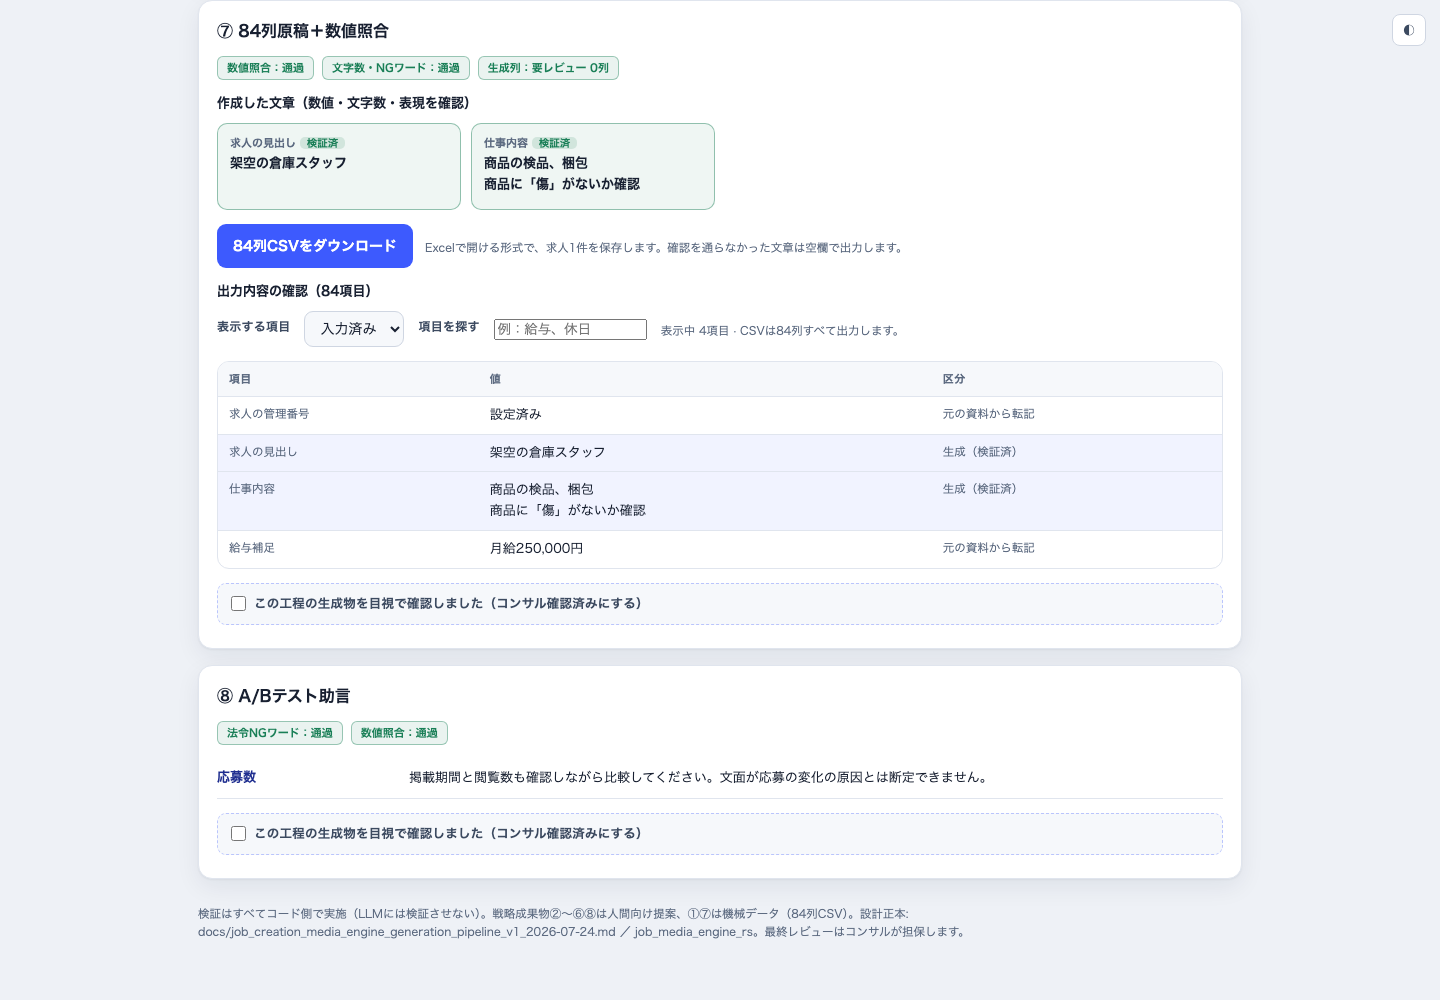
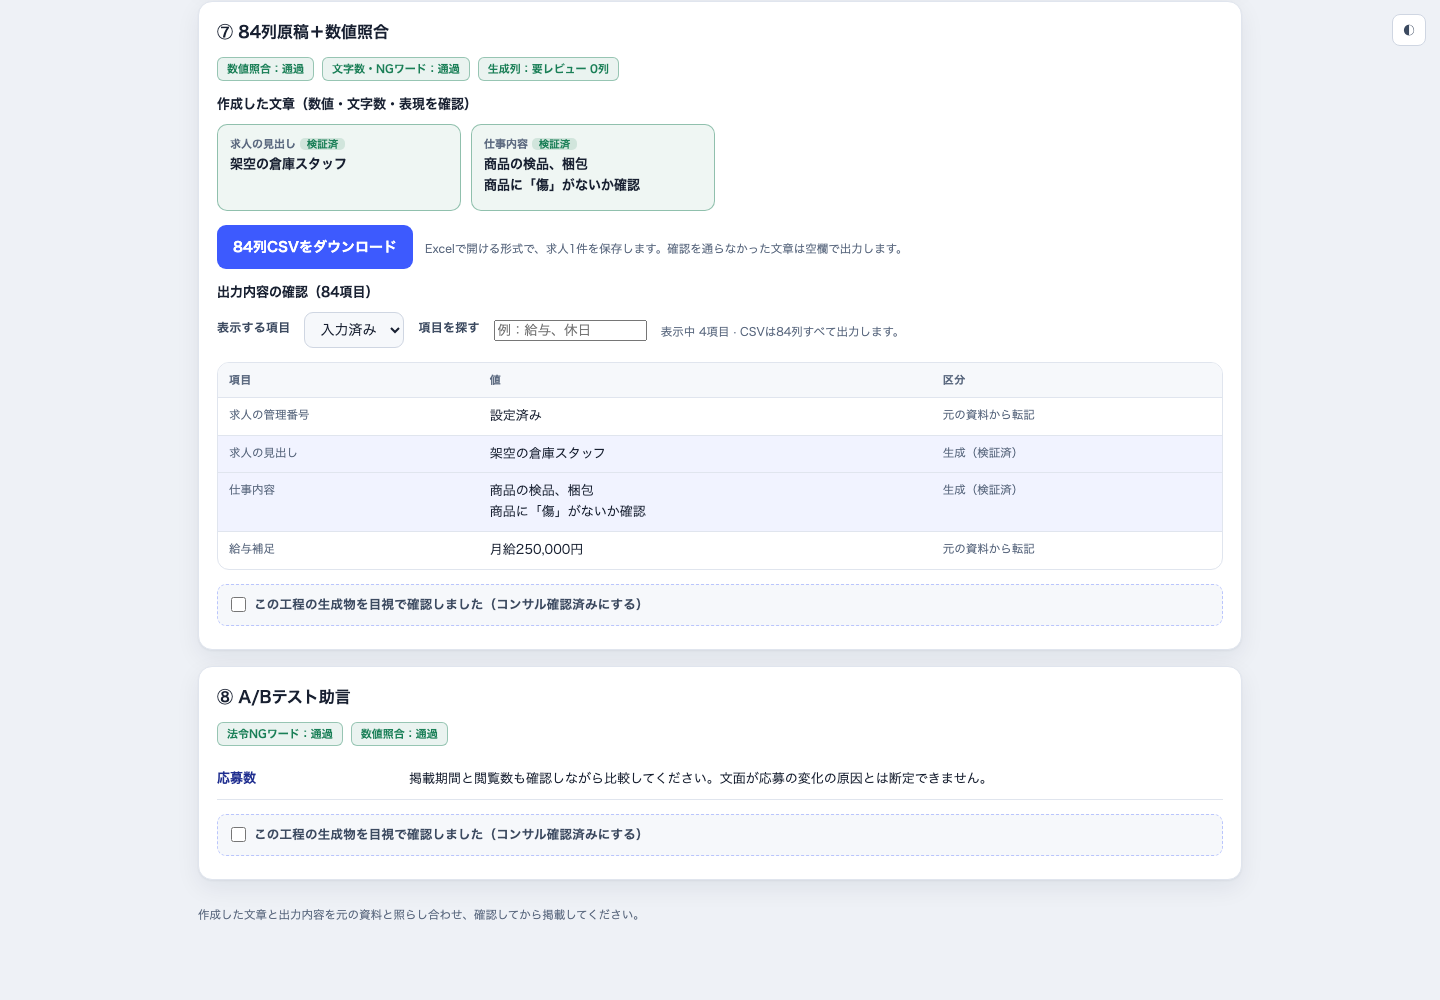
求人票作成の読込競合・職種名判定・内部情報表示を修正

diff --git a/frontend/src/screens/jobgen/reviewRegressions.test.tsx b/frontend/src/screens/jobgen/reviewRegressions.test.tsx
@@ -1,0 +1,72 @@
+// @vitest-environment happy-dom
+import { act, cleanup, fireEvent, render, waitFor, within } from '@testing-library/react';
+import { afterEach, expect, it, vi } from 'vitest';
+import fixtures from '../../generated/jobgen/fixtures.json';
+import type { PostFn } from './api';
+import { JobgenScreen } from './JobgenScreen';
+import type { HrhackerResult } from './state';
+import { HrhackerSection } from './sections/HrhackerSection';
+
+afterEach(() => { cleanup(); vi.restoreAllMocks(); });
+
+function element(root: ParentNode, selector: string): HTMLElement {
+  const found = root.querySelector<HTMLElement>(selector);
+  if (!found) throw new Error(`画面に ${selector} がありません`);
+  return found;
+}
+
+it('旧求人があってもCSVの読込開始から工程①を止め、新しい求人を取り込む', async () => {
+  const post = vi.fn((path: string, body: { kind?: string }) => Promise.resolve({ ok: true, data: path.endsWith('/normalize') ? { status: 'ok', jobs: [{ title_hint: body.kind === 'csv' ? '配送スタッフ' : '営業', source_text: body.kind === 'csv' ? '配送スタッフ 月給300000円' : '営業 月給250000円' }] } : fixtures.responses.extract })) as unknown as PostFn;
+  const view = render(<JobgenScreen post={post} />);
+  fireEvent.change(element(view.container, '#freeText'), { target: { value: '営業 月給250000円' } });
+  fireEvent.click(element(view.container, '#normBtn'));
+  await waitFor(() => { expect((element(view.container, '#jobTitle') as HTMLInputElement).value).toBe('営業'); });
+  expect((element(view.container, '#jobTitle') as HTMLInputElement).value).toBe('営業');
+  fireEvent.click(element(view.container, '[data-kind="csv"]'));
+  const originalRead = Reflect.get(FileReader.prototype, 'readAsArrayBuffer') as FileReader['readAsArrayBuffer'];
+  let resume: () => void = () => { throw new Error('ファイル読込が始まっていません'); };
+  vi.spyOn(FileReader.prototype, 'readAsArrayBuffer').mockImplementation(function (this: FileReader, blob: Blob) { resume = () => { originalRead.call(this, blob); }; });
+  fireEvent.change(element(view.container, '#fileInput'), { target: { files: [new File(['職種ID,職種名\n42,配送スタッフ\n'], '求人.csv')] } });
+  fireEvent.click(element(view.container, '#normBtn'));
+  const step = element(view.container, '[data-rerun="extract"]') as HTMLButtonElement;
+  expect(step.disabled).toBe(true);
+  fireEvent.click(step);
+  expect(vi.mocked(post).mock.calls.map(([path]) => path)).toEqual(['/api/jobgen/normalize']);
+  act(() => { resume(); });
+  await waitFor(() => { expect((element(view.container, '#jobTitle') as HTMLInputElement).value).toBe('配送スタッフ'); });
+  expect(step.disabled).toBe(false);
+});
+
+it('画面下部は利用者向けの案内だけを表示する', () => {
+  const view = render(<JobgenScreen />);
+  const footer = element(view.container, '.foot');
+  expect(footer.textContent).not.toMatch(/docs\/|job_media_engine_rs|LLM|機械データ|設計正本/);
+  expect(footer.textContent).toContain('確認');
+});
+
+it('確認表の要確認・検証済・元資料・未取得を各行で区別し、要確認だけに絞れる', () => {
+  const h: HrhackerResult = structuredClone(fixtures.responses.hrhacker);
+  h.generated_fields = {
+    job_title: { column: '案件名', value: '配送スタッフ', status: 'generated_verified', issues: [] },
+    merit: { column: 'メリット', value: '', status: 'review_required', issues: ['確認が必要'] },
+  };
+  h.row['案件名'] = '配送スタッフ';
+  h.row['メリット'] = '';
+  h.row['給与補足'] = '月給300000円';
+  h.row['自由項目1の内容'] = '';
+  h.review_required_fields = ['メリット'];
+  const view = render(<HrhackerSection h={h} confirmed={false} onConfirm={() => undefined} />);
+  const table = element(view.container, '#reviewTable');
+  const rowFor = (label: string): HTMLElement => {
+    const row = Array.from(table.querySelectorAll<HTMLTableRowElement>('tbody tr')).find(row => row.querySelector('td')?.textContent === label);
+    if (!row) throw new Error(`確認表に ${label} がありません`);
+    return row;
+  };
+  expect(within(rowFor('メリット')).getAllByRole('cell').map(c => c.textContent)).toEqual(['メリット', '未取得', '要確認']);
+  expect(within(rowFor('求人の見出し')).getAllByRole('cell')[2]?.textContent).toBe('生成（検証済）');
+  expect(within(rowFor('給与補足')).getAllByRole('cell')[2]?.textContent).toBe('元の資料から転記');
+  expect(within(rowFor('休日・休暇')).getAllByRole('cell')[2]?.textContent).toBe('未取得');
+  fireEvent.change(element(view.container, '#reviewFilter'), { target: { value: 'review' } });
+  expect(table.querySelectorAll('tbody tr')).toHaveLength(1);
+  expect(element(table, 'tbody').textContent).toBe('メリット未取得要確認');
+});

diff --git a/tests/e2e/pr/jobgen.spec.ts b/tests/e2e/pr/jobgen.spec.ts
@@ -67,6 +67,54 @@ for (const width of [1440, 1920]) {
       await page.goto('/app/jobgen');
     });
 
+    test('旧求人のあるCSV読込中も工程①を止め、管理番号でなく職種名を表示する', async ({ page }) => {
+      await page.locator('#freeText').fill('営業 月給250000円');
+      await page.locator('#normBtn').click();
+      await expect(page.locator('#jobTitle')).toHaveValue('営業 月給250000円');
+      await page.locator('#jobConfirmChk').check();
+      await page.locator('[data-kind="csv"]').click();
+      await page.locator('#fileInput').setInputFiles({ name: '職種一覧.csv', mimeType: 'text/csv', buffer: Buffer.from('職種ID,職種名\n42,配送スタッフ\n43,倉庫スタッフ\n') });
+      await page.evaluate(() => {
+        const native = FileReader.prototype.readAsArrayBuffer;
+        FileReader.prototype.readAsArrayBuffer = function (blob: Blob) { setTimeout(() => native.call(this, blob), 1500); };
+      });
+      const extractRequests: string[] = [];
+      page.on('request', req => { if (req.url().endsWith('/api/jobgen/extract')) extractRequests.push(req.url()); });
+      await page.locator('#normBtn').click();
+      await expect(page.locator('[data-rerun="extract"]')).toBeDisabled();
+      await expect(page.locator('#runAllBtn')).toBeDisabled();
+      await expect(page.locator('#status')).toContainText('取り込み中');
+      await page.locator('[data-rerun="extract"]').click({ force: true });
+      await expect(page.locator('.jobitem')).toHaveCount(2);
+      await expect(page.locator('.jobitem .jt')).toHaveText(['配送スタッフ', '倉庫スタッフ']);
+      await expect(page.locator('#jobTitle')).toHaveCount(0);
+      await page.locator('.jobitem').first().click();
+      await expect(page.locator('#jobTitle')).toHaveValue('配送スタッフ');
+      expect(extractRequests).toEqual([]);
+      await expect(page.locator('.jobitem').first()).toContainText('配送スタッフ');
+      await expect(page.locator('.foot')).not.toContainText(/docs\/|job_media_engine_rs|LLM|機械データ|設計正本/);
+      if (width === 1440 && process.env.JOBGEN_SCREENSHOTS) {
+        await page.locator('.foot').scrollIntoViewIfNeeded();
+        await page.screenshot({ path: path.join(root, 'docs/screenshots/jobgen-usability/review-fixes-1440.png') });
+      }
+    });
+
+    test('確認表の要確認区分と絞り込みを実際の画面で確認する', async ({ page }) => {
+      const h = structuredClone(fixtures.responses.hrhacker);
+      await page.route('**/api/jobgen/hrhacker', route => route.fulfill({ json: h }));
+      await page.locator('#freeText').fill('架空の介護職 月給192000円');
+      await page.locator('#normBtn').click();
+      await page.locator('#jobConfirmChk').check();
+      await page.locator('#runAllBtn').click();
+      const merit = page.locator('#reviewTable tbody tr').filter({ has: page.getByText('メリット', { exact: true }) });
+      await expect(merit.locator('td').nth(2)).toHaveText('要確認');
+      const title = page.locator('#reviewTable tbody tr').filter({ has: page.getByText('求人の見出し', { exact: true }) });
+      await expect(title.locator('td').nth(2)).toHaveText('生成（検証済）');
+      await page.locator('#reviewFilter').selectOption('review');
+      await expect(page.locator('#reviewTable tbody tr')).toHaveCount(1);
+      await expect(merit.locator('td').nth(2)).toHaveText('要確認');
+    });
+
     for (const input of [
       { kind: 'csv', file: 'customer-utf8.csv', title: '倉庫スタッフ', salary: '月給250,000円', multi: true },
       { kind: 'csv', file: 'customer-sjis.csv', title: '倉庫スタッフ', salary: '月給250,000円', multi: true },

diff --git a/frontend/src/screens/jobgen/JobgenScreen.tsx b/frontend/src/screens/jobgen/JobgenScreen.tsx
@@ -151,13 +151,11 @@ function toggleTheme(): void {
 
 /** 入力パネル (自由テキスト / URL / ファイル)。入力欄の値は DOM が持つ (旧と同じ非制御)。 */
 function InputPanel({ s, ctl }: { s: PipelineState; ctl: PipelineController }) {
-  const [reading, setReading] = useState(false);
-  const busy = s.running || s.normalizing || reading;
+  const busy = s.running || s.normalizing;
   const k = s.kind;
   const isFile = isFileKind(k);
   const onNormalize = (): void => {
     if (busy) return;
-    setReading(true);
     const q = (id: string): HTMLInputElement | HTMLTextAreaElement | null =>
       document.getElementById(id) as HTMLInputElement | HTMLTextAreaElement | null;
     const fileEl = document.getElementById('fileInput') as HTMLInputElement | null;
@@ -168,23 +166,7 @@ function InputPanel({ s, ctl }: { s: PipelineState; ctl: PipelineController }) {
       file: fileEl?.files?.[0] ?? null,
       pasteText: q('pasteArea')?.value ?? '',
     };
-    void (async () => {
-      let built: Awaited<ReturnType<typeof buildNormalizeRequest>>;
-      try {
-        built = await buildNormalizeRequest(inputs);
-      } catch (e) {
-        ctl.errStatus(e instanceof Error ? e.message : String(e));
-        setReading(false);
-        return;
-      }
-      if (!built.ok) {
-        ctl.errStatus(built.message);
-        setReading(false);
-        return;
-      }
-      await ctl.normalize(built.body);
-      setReading(false);
-    })();
+    void ctl.normalize(() => buildNormalizeRequest(inputs));
   };
   return (
     <div className="panel">
@@ -241,7 +223,7 @@ function InputPanel({ s, ctl }: { s: PipelineState; ctl: PipelineController }) {
       </div>
       <div style={{ marginTop: '8px' }}>
         <button type="button" className="btn" id="normBtn" disabled={busy} onClick={onNormalize}>
-          {reading || s.normalizing ? '取り込み中…' : '求人を取り込む'}
+          {s.normalizing ? '取り込み中…' : '求人を取り込む'}
         </button>
       </div>
       <div className="note">
@@ -539,9 +521,7 @@ export function JobgenView({ s, ctl }: { s: PipelineState; ctl: PipelineControll
         </ResultSection>
 
         <p className="foot">
-          検証はすべてコード側で実施（LLMには検証させない）。戦略成果物②〜⑥⑧は人間向け提案、①⑦は機械データ（84列CSV）。設計正本:
-          docs/job_creation_media_engine_generation_pipeline_v1_2026-07-24.md ／
-          job_media_engine_rs。最終レビューはコンサルが担保します。
+          作成した文章と出力内容を元の資料と照らし合わせ、確認してから掲載してください。
         </p>
       </div>
     </div>

diff --git a/frontend/src/screens/jobgen/pipeline.ts b/frontend/src/screens/jobgen/pipeline.ts
@@ -32,14 +32,18 @@ import {
 } from './state';
 import type { Store } from './store';
 
+export type NormalizePreparation = () => Promise<
+  { ok: true; body: NormalizeRequest } | { ok: false; message: string }
+>;
+
 export interface PipelineController {
   setKind: (kind: InputKind) => void;
   setPersonaCount: (n: number) => void;
   setJobTitle: (v: string) => void;
   setJobTitleConfirmed: (b: boolean) => void;
   toggleConfirm: (key: StepKey, checked: boolean) => void;
-  /** 取り込み。body は画面側で組む (ファイル読込は DOM 側)。 */
-  normalize: (body: NormalizeRequest) => Promise<void>;
+  /** ファイル読込の準備から取り込み完了まで共通の待機状態で守る。 */
+  normalize: (input: NormalizeRequest | NormalizePreparation) => Promise<void>;
   pickJob: (index: number) => void;
   runOne: (key: StepKey) => Promise<void>;
   runAll: () => Promise<void>;
@@ -404,10 +408,26 @@ export function createPipelineController({ store, post, now }: ControllerDeps): 
     }));
   };
 
-  const normalize = async (body: NormalizeRequest): Promise<void> => {
+  const normalize = async (input: NormalizeRequest | NormalizePreparation): Promise<void> => {
     if (get().running || get().normalizing) return;
     set({ normalizing: true, statusMessage: { kind: 'loading', text: '求人の内容を取り込み中…' } });
     try {
+      let body: NormalizeRequest;
+      if (typeof input === 'function') {
+        try {
+          const prepared = await input();
+          if (!prepared.ok) {
+            errStatus(prepared.message);
+            return;
+          }
+          body = prepared.body;
+        } catch (e) {
+          errStatus(e instanceof Error ? e.message : 'ファイルを読み取れませんでした。ファイルを選び直してください。');
+          return;
+        }
+      } else {
+        body = input;
+      }
       const r = await post('/api/jobgen/normalize', body);
       if (!r.ok) {
         errStatus('取り込めませんでした: ' + r.error.message);

diff --git a/frontend/src/screens/jobgen/pipeline.test.ts b/frontend/src/screens/jobgen/pipeline.test.ts
@@ -69,6 +69,21 @@ const AB_SUMMARY = [
 ].join('\n');
 
 describe('取り込み (normalize)', () => {
+  it('ファイル読込の検査失敗・読込エラーでも待機を解除し、旧求人を保つ', async () => {
+    const t = setup();
+    await importAndConfirm(t);
+    await t.ctl.normalize(() => Promise.resolve({ ok: false, message: 'ファイルを選択してください。' }));
+    expect(t.store.get().normalizing).toBe(false);
+    expect(t.store.get().sourceText).toBe(SRC);
+    expect(t.store.get().statusMessage?.text).toBe('ファイルを選択してください。');
+    await t.ctl.normalize(() => Promise.reject(new Error('文字を読み取れません。')));
+    expect(t.store.get().normalizing).toBe(false);
+    expect(t.store.get().statusMessage?.text).toBe('文字を読み取れません。');
+    expect(t.calls).toHaveLength(1);
+    await t.ctl.runOne('extract');
+    expect(t.calls[1]?.path).toBe('/api/jobgen/extract');
+  });
+
   it('単一求人の生成後に複数求人を取り込むと、選択前の原文・結果・職種確認を消す', async () => {
     const t = setup();
     await t.ctl.normalize({ kind: 'free_text', text: SRC });

diff --git a/src/job_gen/inputs.rs b/src/job_gen/inputs.rs
@@ -689,9 +689,24 @@ fn rows_to_csv_bytes(rows: &[Vec<String>]) -> Result<Vec<u8>> {
 fn find_title_col(header: &[String]) -> Option<usize> {
     const JP_KEYS: [&str; 6] = ["職種", "案件名", "求人名", "募集職種", "タイトル", "職種名"];
     const EN_KEYS: [&str; 4] = ["title", "job", "position", "role"];
+    // 管理番号は職種名にしない。明示的な名称の見出しを部分一致より優先する。
+    let is_identifier = |h: &str| {
+        let lower = h.to_ascii_lowercase();
+        lower.ends_with("id") || h.contains("コード") || h.contains("番号")
+    };
     for (i, h) in header.iter().enumerate() {
+        let h = h.trim();
         let hl = h.to_ascii_lowercase();
-        if JP_KEYS.iter().any(|k| h.contains(k)) || EN_KEYS.iter().any(|k| hl.contains(k)) {
+        if JP_KEYS.contains(&h) || EN_KEYS.contains(&hl.as_str()) || hl == "job_title" {
+            return Some(i);
+        }
+    }
+    for (i, h) in header.iter().enumerate() {
+        let h = h.trim();
+        let hl = h.to_ascii_lowercase();
+        if !is_identifier(h)
+            && (JP_KEYS.iter().any(|k| h.contains(k)) || EN_KEYS.iter().any(|k| hl.contains(k)))
+        {
             return Some(i);
         }
     }
@@ -902,6 +917,18 @@ mod tests {
         assert_eq!(jobs[0].source_text, body);
         assert_eq!(jobs[0].title_hint.chars().count(), 30);
         assert!(long.starts_with(&jobs[0].title_hint));
+    }
+
+    #[test]
+    fn csv_職種idより職種名を選び原文のidは保持する() {
+        for csv in [
+            "職種ID,職種名\n42,配送スタッフ\n",
+            "job_id,job_title\n42,配送スタッフ\n",
+        ] {
+            let jobs = rows_to_jobs(parse_csv(csv).unwrap());
+            assert_eq!(jobs[0].title_hint, "配送スタッフ");
+            assert!(jobs[0].source_text.contains("42"));
+        }
     }
 
     #[test]
